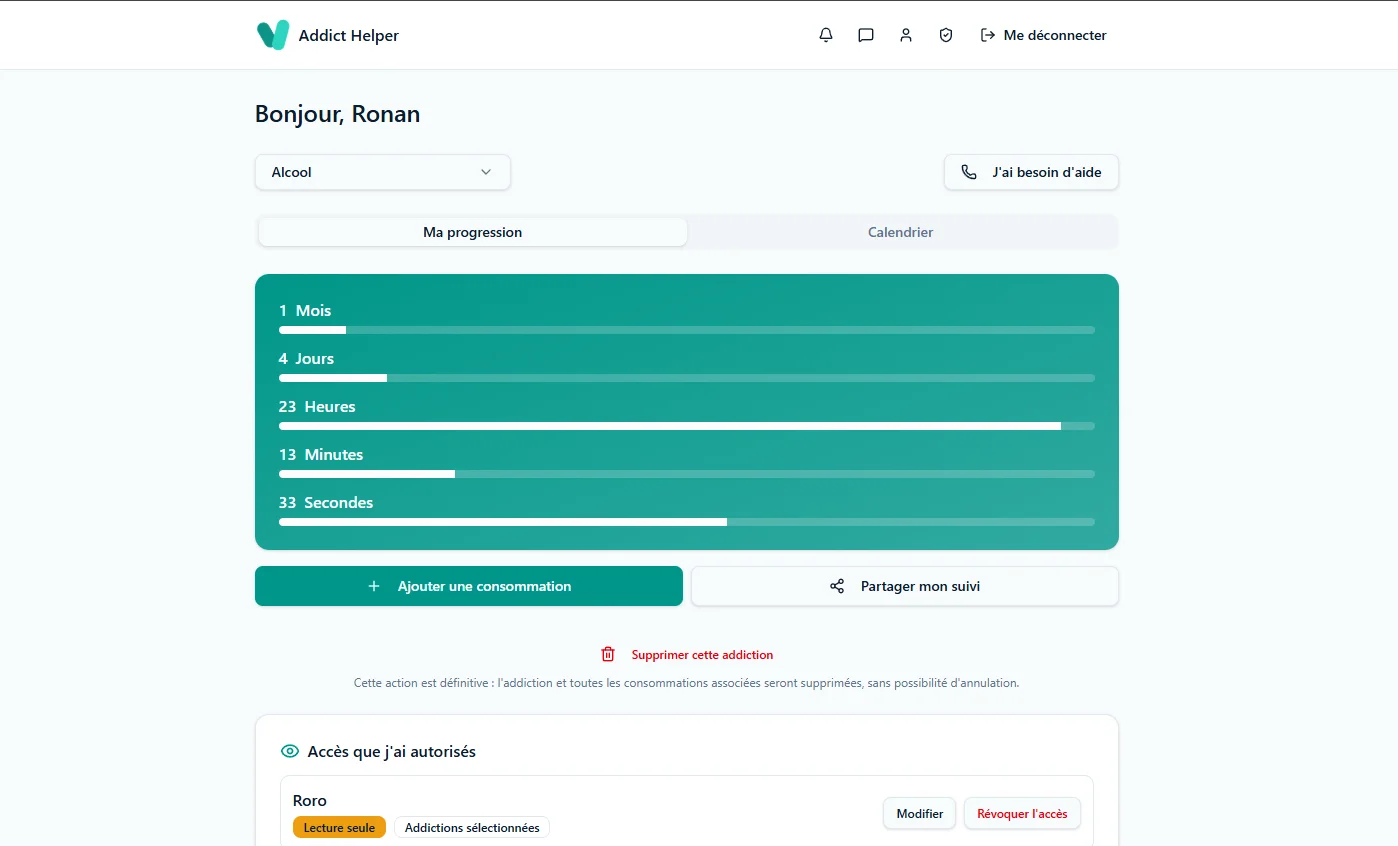
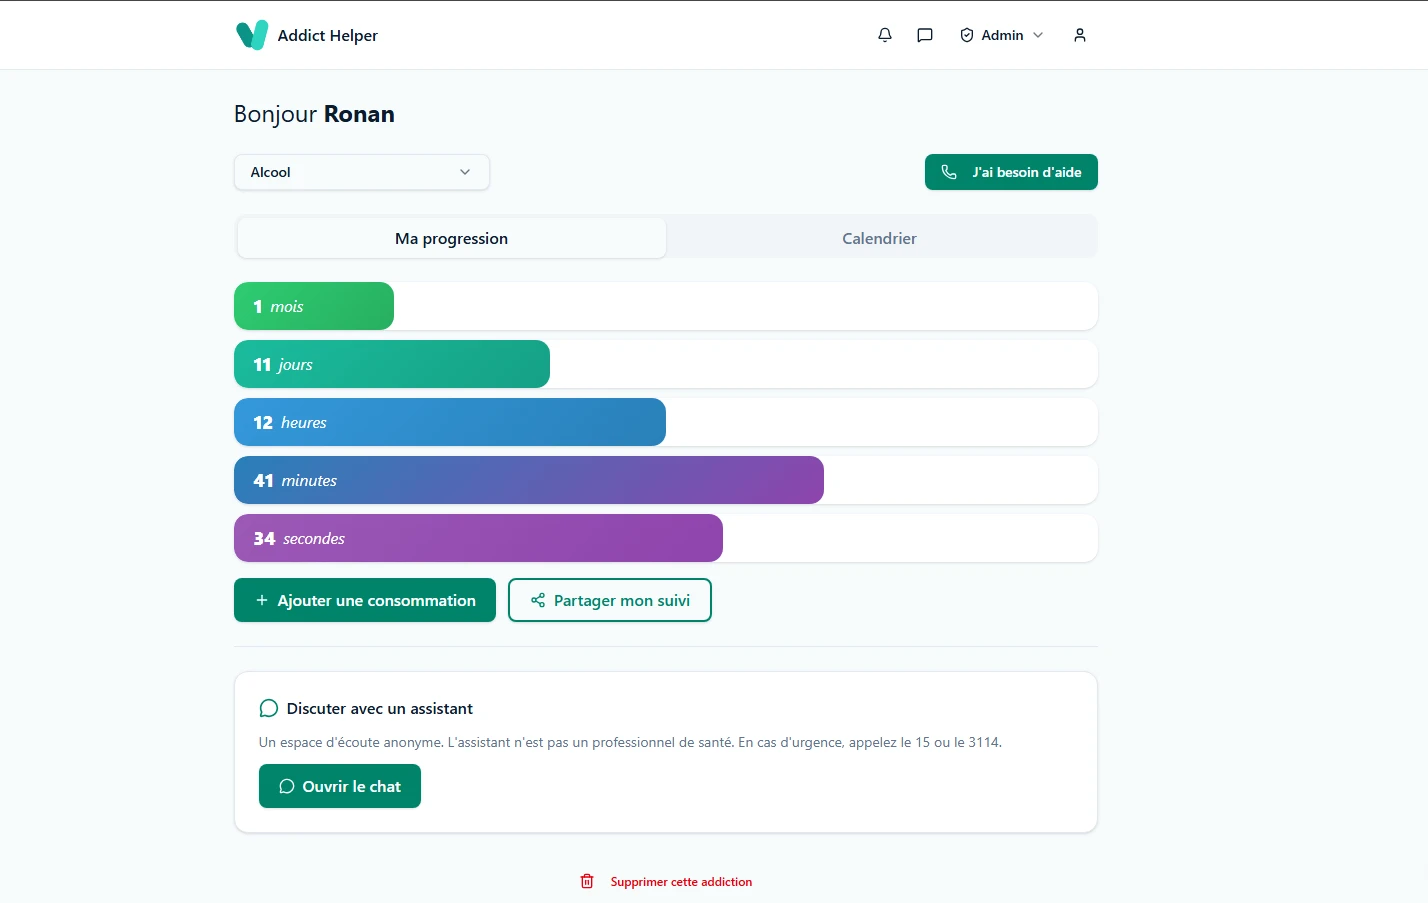
update

diff --git a/addict-helper.html b/addict-helper.html
@@ -36,7 +36,7 @@
 
   	<section class="hero-project">
   		<h1>Addict helper</h1>
-					<img src="projects/addict-helper/overview.webp" alt="Le tableau de bord d'Addict Helper : compteur d'abstinence en temps réel (mois, jours, heures, minutes, secondes), boutons pour ajouter une consommation ou partager son suivi, et liste des aidants autorisés." width="1398" height="846" loading="lazy" decoding="async">
+					<img src="projects/addict-helper/overview.webp" alt="Le tableau de bord d'Addict Helper : compteur d'abstinence en temps réel (mois, jours, heures, minutes, secondes), boutons pour ajouter une consommation ou partager son suivi, et liste des aidants autorisés." width="1428" height="903" loading="lazy" decoding="async">
     </section>
 
 

diff --git a/index.html b/index.html
@@ -142,7 +142,7 @@
 <div class="project-ia-content">
 
 <div class="infos-projet">
-		<img src="projects/addict-helper/overview.webp" alt="" width="1398" height="846" loading="lazy" decoding="async">
+		<img src="projects/addict-helper/overview.webp" alt="" width="1428" height="903" loading="lazy" decoding="async">
 			</div>
 
 	<div class="project-ia-text">
